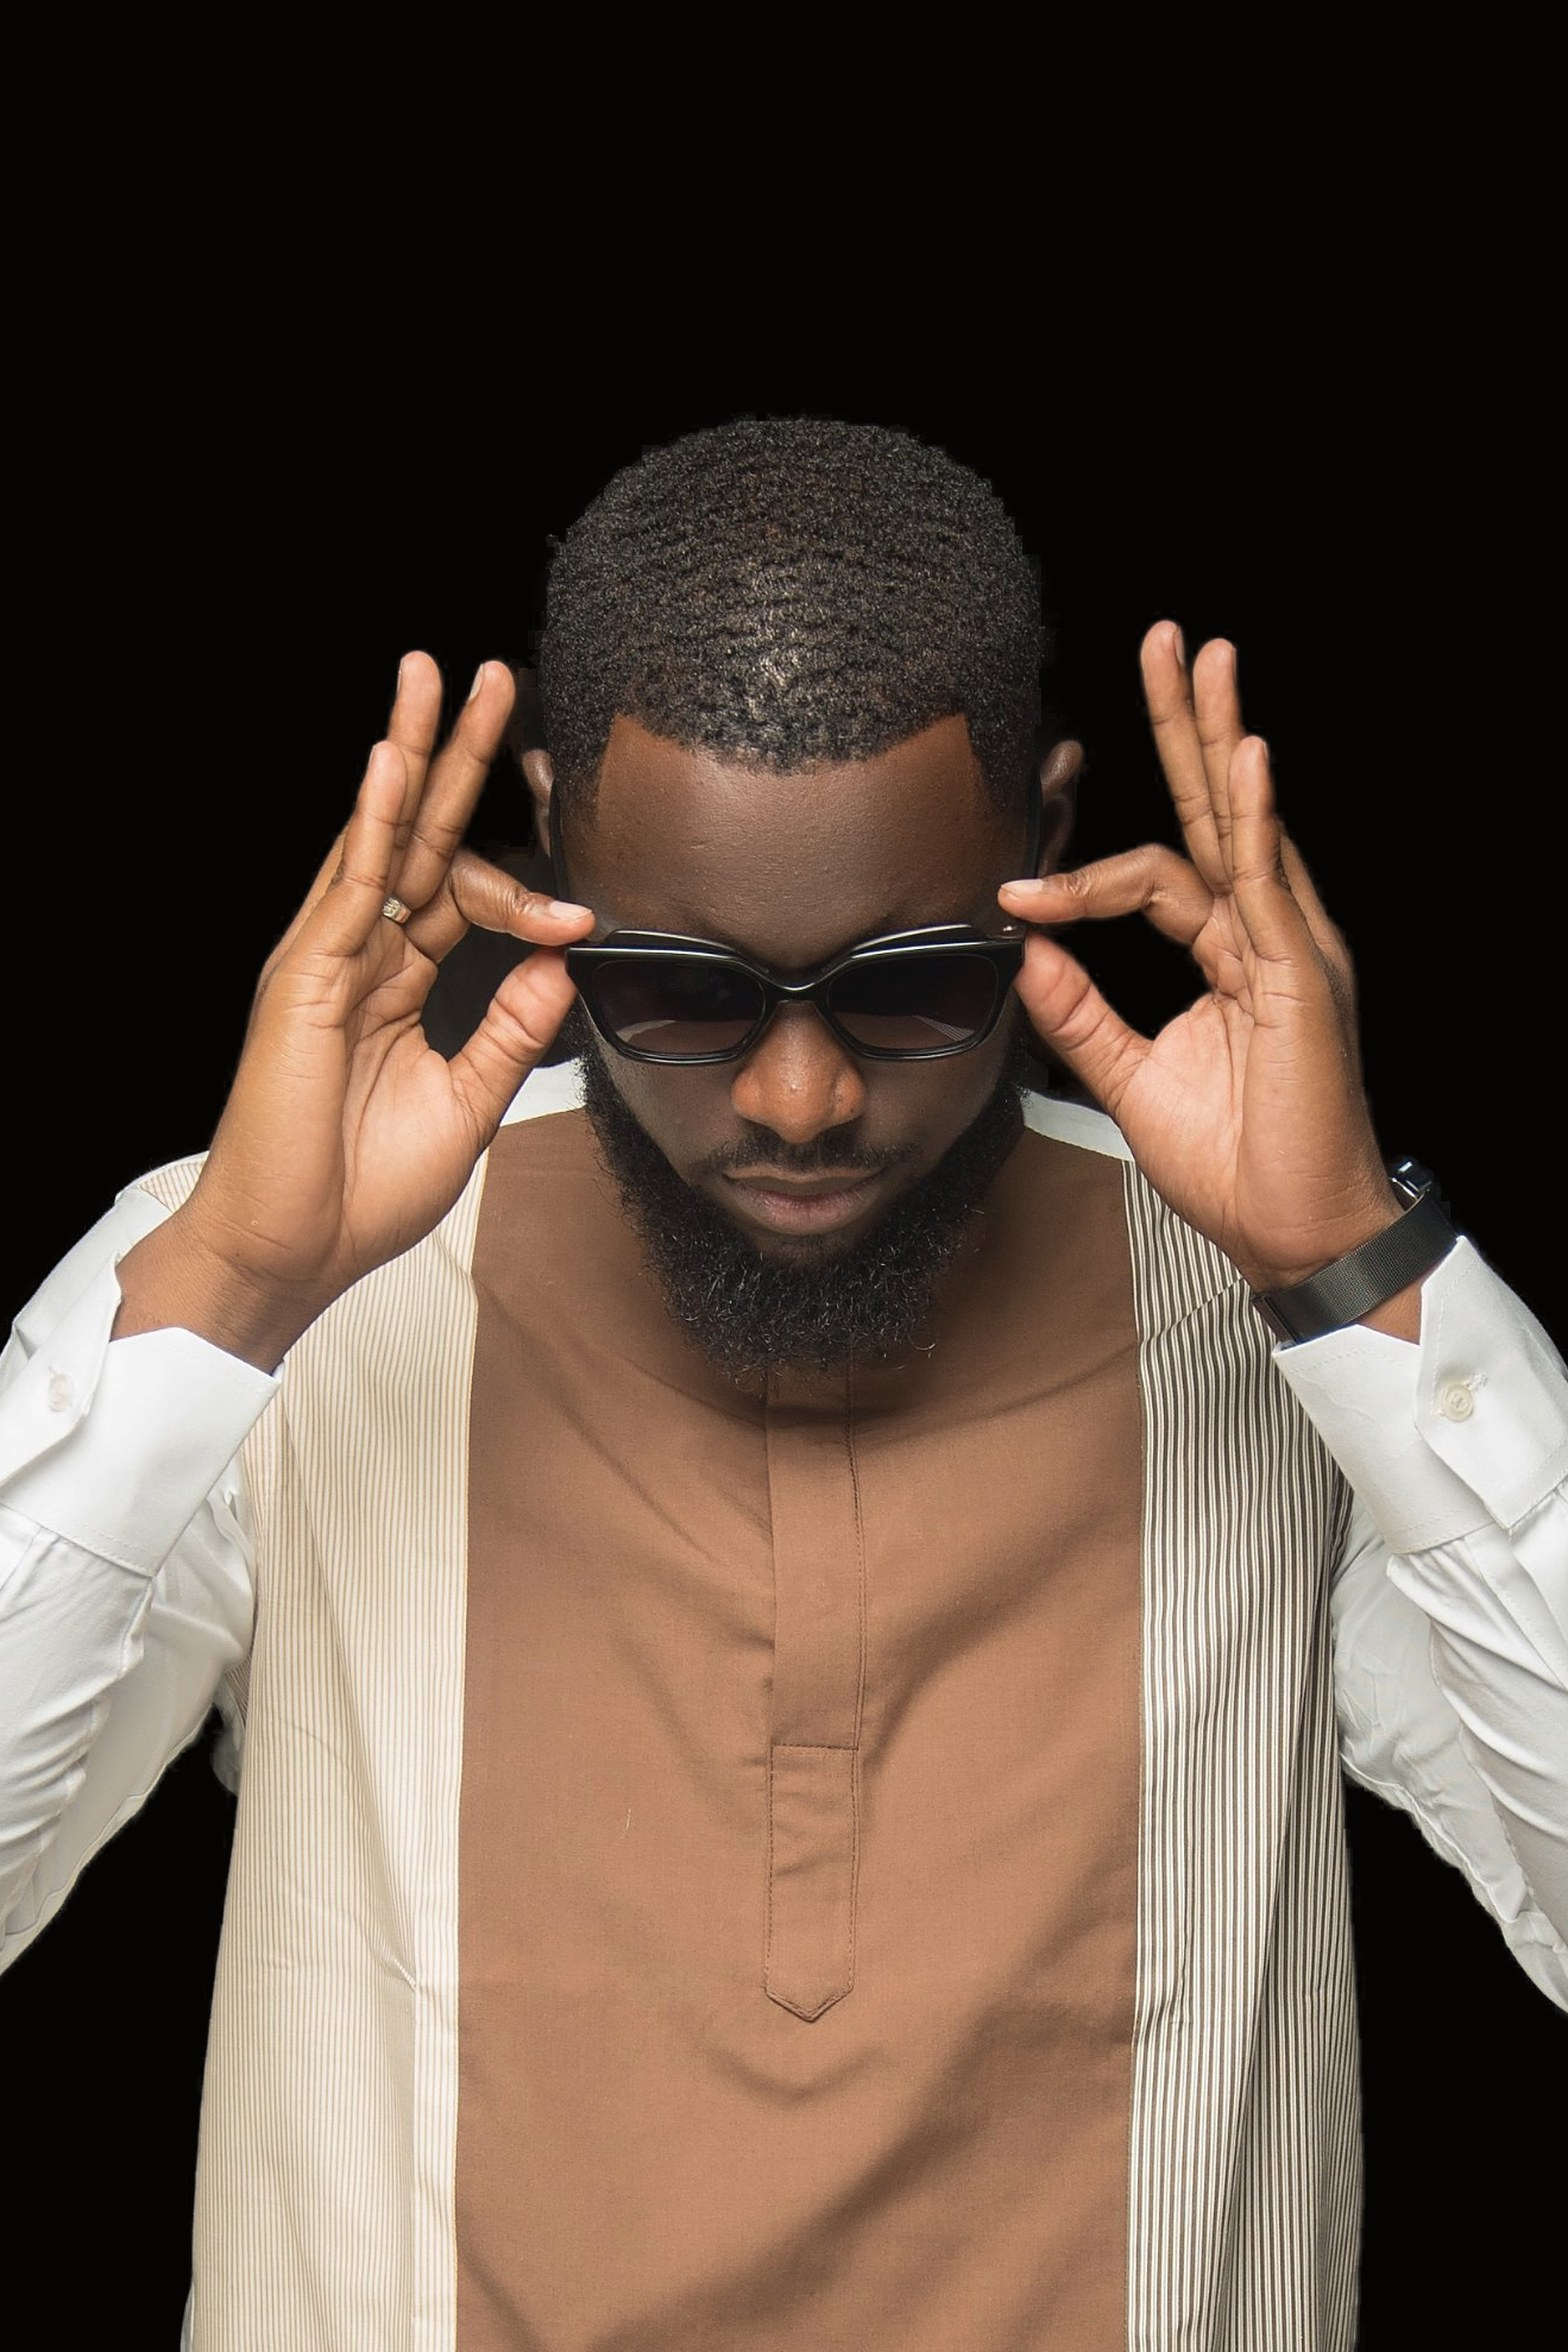
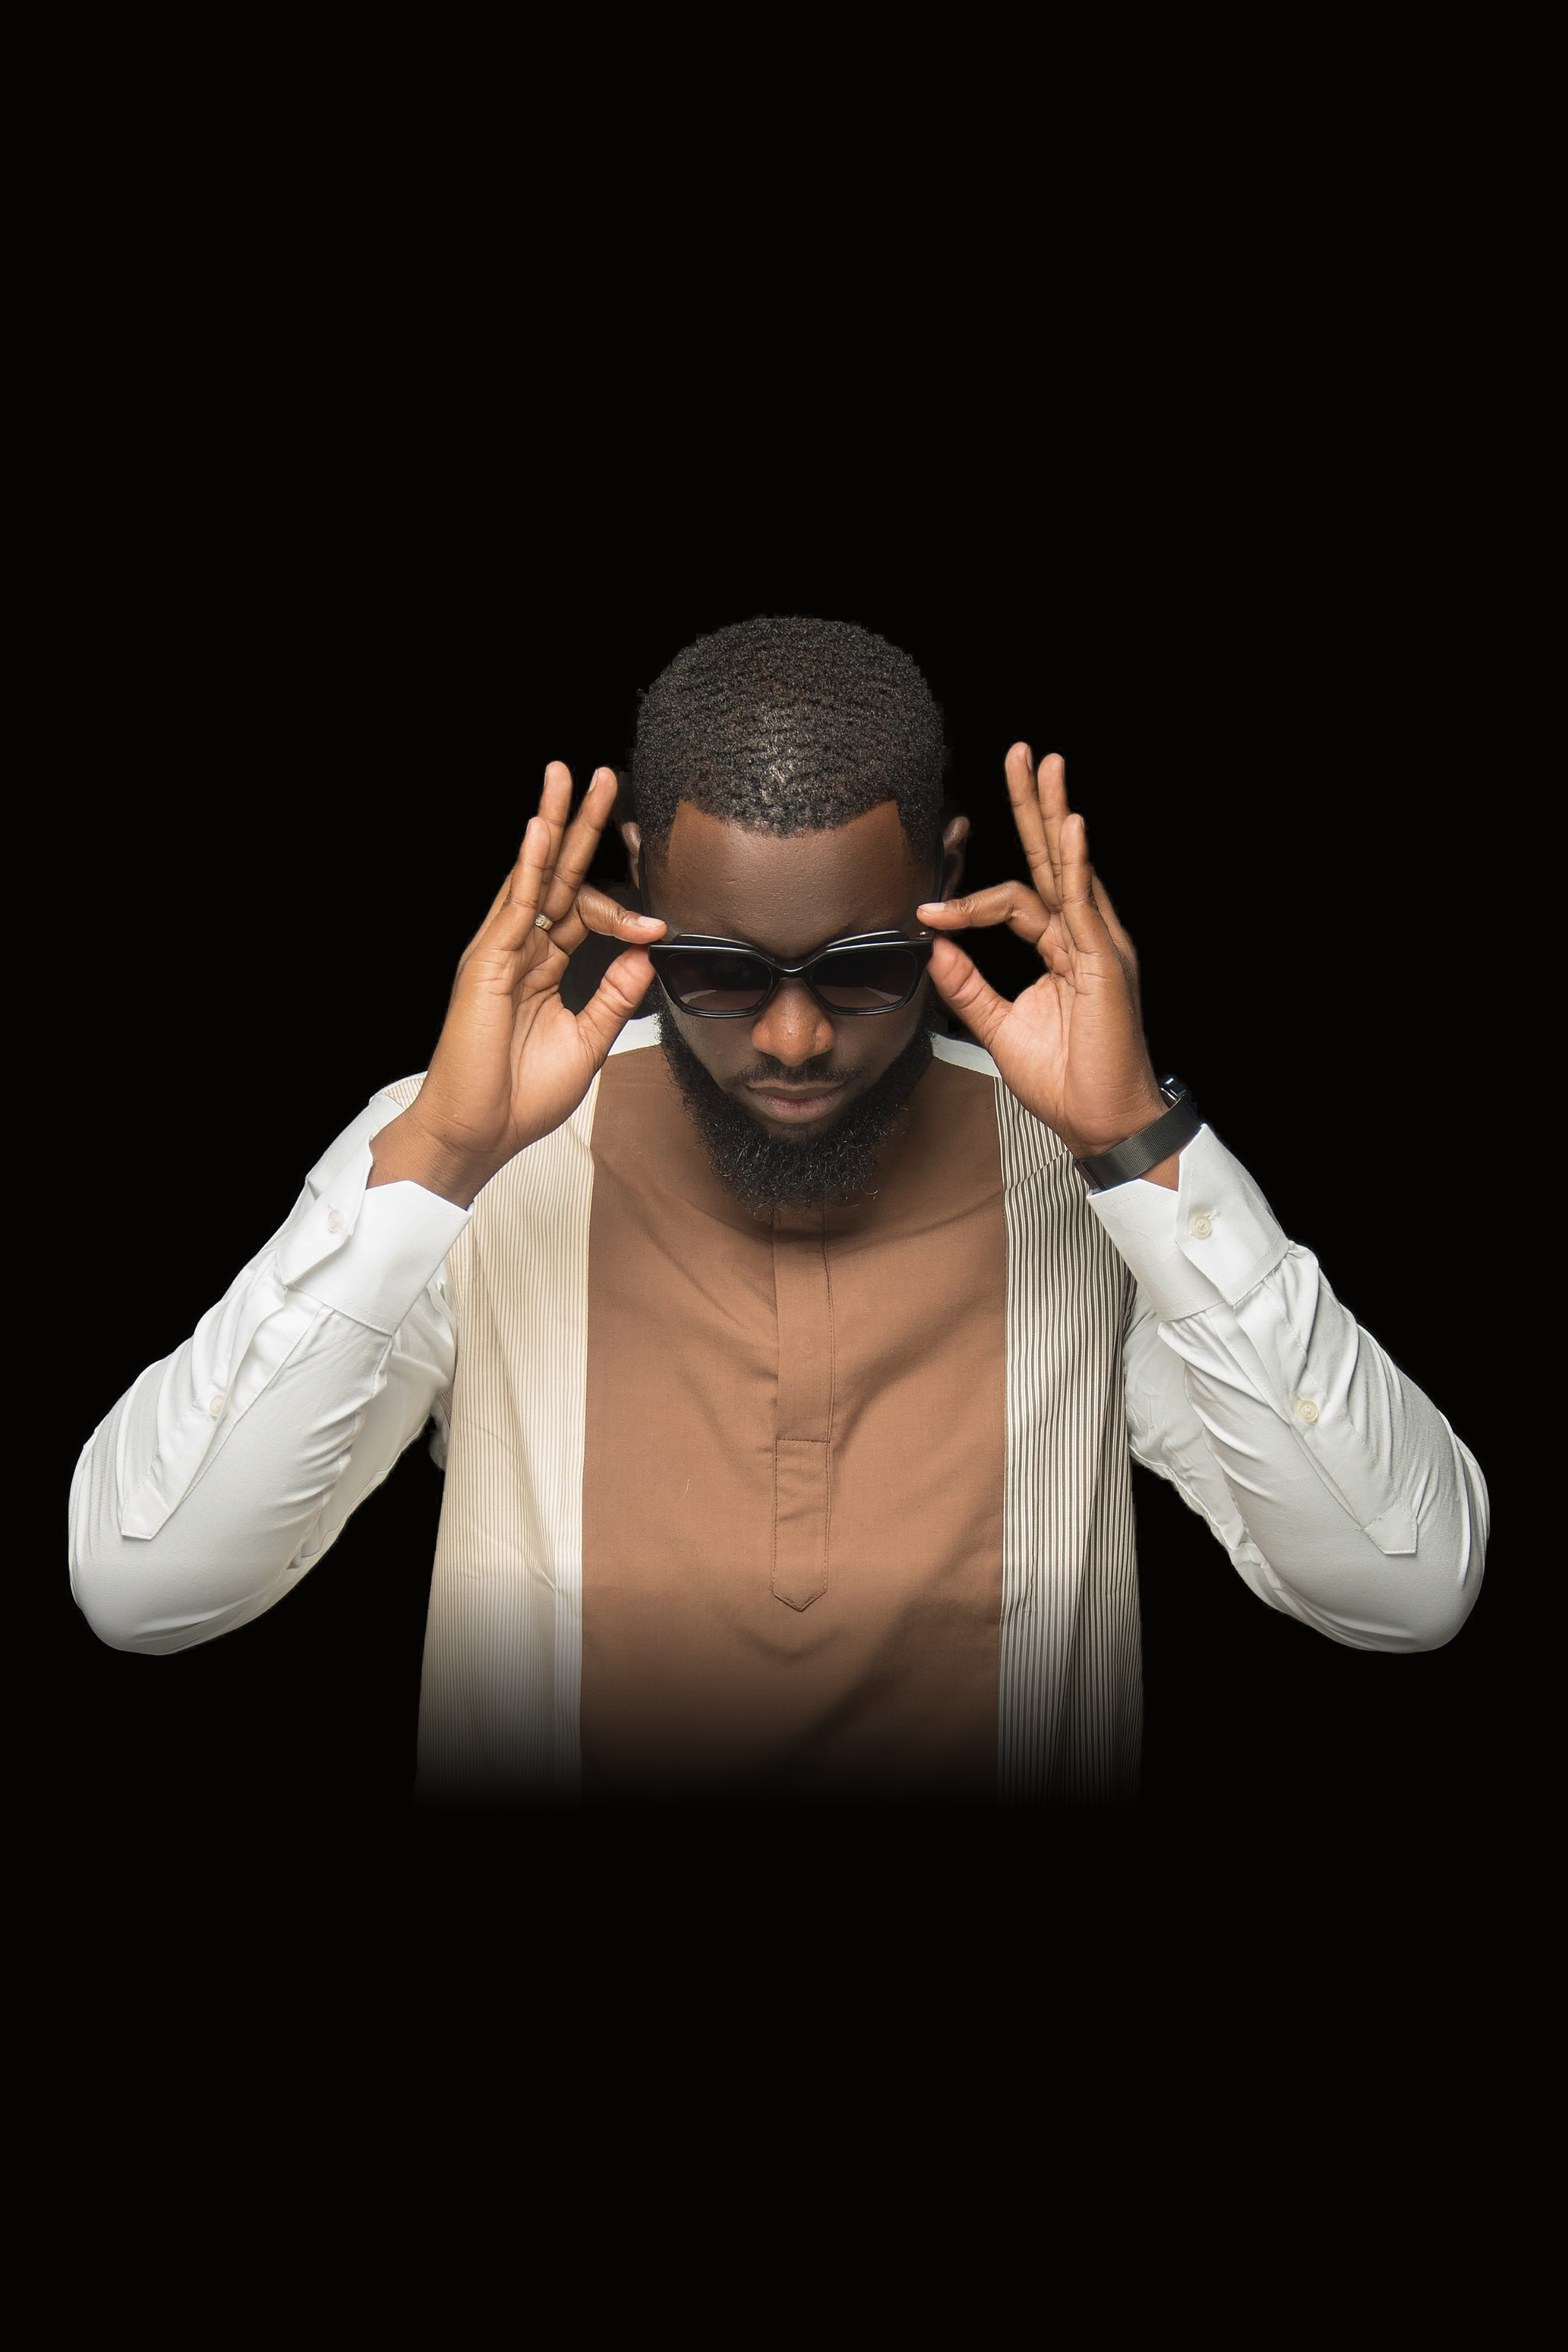
Add files via upload

diff --git a/css/style.css b/css/style.css
@@ -96,10 +96,11 @@ p { margin: 0 0 1rem; }
   position: absolute;
   inset: 0;
   background:
-    linear-gradient(90deg, var(--ink) 0%, rgba(5, 4, 3, 0.7) 18%, rgba(5, 4, 3, 0) 46%),
     linear-gradient(0deg, var(--ink) 0%, rgba(5, 4, 3, 0) 24%),
     linear-gradient(180deg, rgba(5, 4, 3, 0.6) 0%, rgba(5, 4, 3, 0) 16%);
 }
+.hero-photo::before { content: ""; position: absolute; inset: 0; z-index: 1; pointer-events: none; background: linear-gradient(90deg, var(--ink) 0%, rgba(5, 4, 3, 0.7) 18%, rgba(5, 4, 3, 0) 46%); transition: opacity var(--fade, 1400ms) ease; }
+.hero-photo[data-cur="1"]::before { opacity: 0; }
 .hero-inner { position: relative; z-index: 2; width: 100%; max-width: min(46rem, 52vw); padding: 6.5rem clamp(16px, 2.4vw, 24px) 6rem max(clamp(24px, 4vw, 48px), env(safe-area-inset-left, 0px)); }
 .hero-tag { margin: 0 0 1.4rem; font-size: clamp(0.68rem, 0.8vw + 0.25rem, 0.82rem); font-weight: 500; letter-spacing: 0.1em; text-transform: uppercase; color: var(--gold); }
 .hero h1 { margin: 0; font-family: var(--font-serif); font-weight: 600; font-size: clamp(2.6rem, 6.2vw, 6rem); line-height: 1.04; letter-spacing: -0.005em; white-space: nowrap; }
@@ -138,8 +139,8 @@ p { margin: 0 0 1rem; }
 
 /* Téléphone : photo pleine largeur, titre, texte défilant, boutons et Explorer superposés en bas de la photo */
 @media (max-width: 520px) {
-  .hero-stage { --ph: min(150vw, calc(100svh - 84px), 780px); display: block; min-height: 0; height: calc(84px + var(--ph)); }
-  .hero-stage::before { display: none; }
+  .hero-stage { --ph: clamp(150vw, calc(100svh - 194px), 780px); display: block; min-height: 560px; height: 100svh; }
+  .hero-stage::before, .hero-photo::before { display: none; }
   .hero-photo { right: 0; left: 0; width: 100%; max-width: none; top: 84px; bottom: auto; height: var(--ph); aspect-ratio: auto; }
   .hero-photo .ph img { object-position: 50% 6%; }
   .hero-photo::after {
@@ -158,7 +159,7 @@ p { margin: 0 0 1rem; }
   .hero-rule { display: none; }
   .hero .actions { flex-wrap: nowrap; gap: 0.6rem; }
   .hero .btn { flex: 1 1 0; min-width: 0; padding: 0.8rem 0.5rem; font-size: 0.62rem; letter-spacing: 0.06em; text-align: center; }
-  .explore { bottom: 0.7rem; }
+  .explore { bottom: max(0.8rem, env(safe-area-inset-bottom, 0px)); }
   .hero-count { top: 0.9rem; bottom: auto; right: 16px; }
 }
 @keyframes bio-scroll { to { transform: translateX(-50%); } }
@@ -359,7 +360,7 @@ main h2 { font-size: clamp(2rem, 5vw, 3.4rem); margin: 0 0 1rem; }
 .hero-photo .slide { opacity: 0; transition: opacity var(--fade) ease; }
 .hero-photo .slide.is-on { opacity: 1; }
 .hero-count { position: absolute; right: clamp(16px, 2.6vw, 32px); bottom: 1.6rem; z-index: 3; display: flex; align-items: center; font-size: 0.72rem; letter-spacing: 0.2em; color: var(--sand); font-variant-numeric: tabular-nums; }
-.hc-bars { display: inline-flex; margin-left: 0.8rem; }
+.hc-bars { display: inline-flex; }
 .hc-bars button { position: relative; width: 26px; height: 22px; padding: 0; border: 0; background: none; cursor: pointer; }
 .hc-bars button::after { content: ""; position: absolute; left: 2px; right: 2px; top: 10px; height: 2px; background: rgba(210, 188, 150, 0.35); transition: background 0.3s ease; }
 .hc-bars button[aria-current="true"]::after { background: var(--gold); }

diff --git a/index.html b/index.html
@@ -60,7 +60,7 @@
     <div class="hero-photo" data-slides>
       <figure class="ph slide is-on " data-label="Bachir Diaw" role="img" aria-label="Bachir Diaw" style="--amb:#8a4a12"><img src="img/hero.jpg" alt="" fetchpriority="high"></figure>
       <figure class="ph slide " data-label="Bachir Diaw" role="img" aria-label="Bachir Diaw" style="--amb:#8a4a12"><img src="img/hero-2.jpg" alt="" loading="lazy" decoding="async"></figure><figure class="ph slide " data-label="Bachir Diaw" role="img" aria-label="Bachir Diaw" style="--amb:#8a4a12"><img src="img/hero-3.jpg" alt="" loading="lazy" decoding="async"></figure>
-      <div class="hero-count" aria-hidden="false"><span class="hc-num" data-slide-num>01</span><span class="hc-sep"> / </span><span class="hc-tot">03</span><span class="hc-bars"><button type="button" data-slide-to="0" aria-label="Photo 1"></button><button type="button" data-slide-to="1" aria-label="Photo 2"></button><button type="button" data-slide-to="2" aria-label="Photo 3"></button></span></div>
+      <div class="hero-count" aria-hidden="false"><span class="hc-bars"><button type="button" data-slide-to="0" aria-label="Photo 1"></button><button type="button" data-slide-to="1" aria-label="Photo 2"></button><button type="button" data-slide-to="2" aria-label="Photo 3"></button></span></div>
     </div>
     <div class="hero-inner">
       <p class="hero-tag">Acteur de cinéma et de télévision, Dakar</p>

diff --git a/en/index.html b/en/index.html
@@ -60,7 +60,7 @@
     <div class="hero-photo" data-slides>
       <figure class="ph slide is-on " data-label="Bachir Diaw" role="img" aria-label="Bachir Diaw" style="--amb:#8a4a12"><img src="../img/hero.jpg" alt="" fetchpriority="high"></figure>
       <figure class="ph slide " data-label="Bachir Diaw" role="img" aria-label="Bachir Diaw" style="--amb:#8a4a12"><img src="../img/hero-2.jpg" alt="" loading="lazy" decoding="async"></figure><figure class="ph slide " data-label="Bachir Diaw" role="img" aria-label="Bachir Diaw" style="--amb:#8a4a12"><img src="../img/hero-3.jpg" alt="" loading="lazy" decoding="async"></figure>
-      <div class="hero-count" aria-hidden="false"><span class="hc-num" data-slide-num>01</span><span class="hc-sep"> / </span><span class="hc-tot">03</span><span class="hc-bars"><button type="button" data-slide-to="0" aria-label="Photo 1"></button><button type="button" data-slide-to="1" aria-label="Photo 2"></button><button type="button" data-slide-to="2" aria-label="Photo 3"></button></span></div>
+      <div class="hero-count" aria-hidden="false"><span class="hc-bars"><button type="button" data-slide-to="0" aria-label="Photo 1"></button><button type="button" data-slide-to="1" aria-label="Photo 2"></button><button type="button" data-slide-to="2" aria-label="Photo 3"></button></span></div>
     </div>
     <div class="hero-inner">
       <p class="hero-tag">Film and television actor, Dakar</p>

diff --git a/js/site.js b/js/site.js
@@ -209,7 +209,7 @@
       current = (n + slides.length) % slides.length;
       slides.forEach(function (s, i) { s.classList.toggle("is-on", i === current); });
       bars.forEach(function (b, i) { b.setAttribute("aria-current", i === current ? "true" : "false"); });
-      if (num) { num.textContent = ("0" + (current + 1)).slice(-2); }
+      show.setAttribute("data-cur", String(current));
     };
     var stop = function () { if (timer) { clearInterval(timer); timer = null; } };
     var start = function () {
